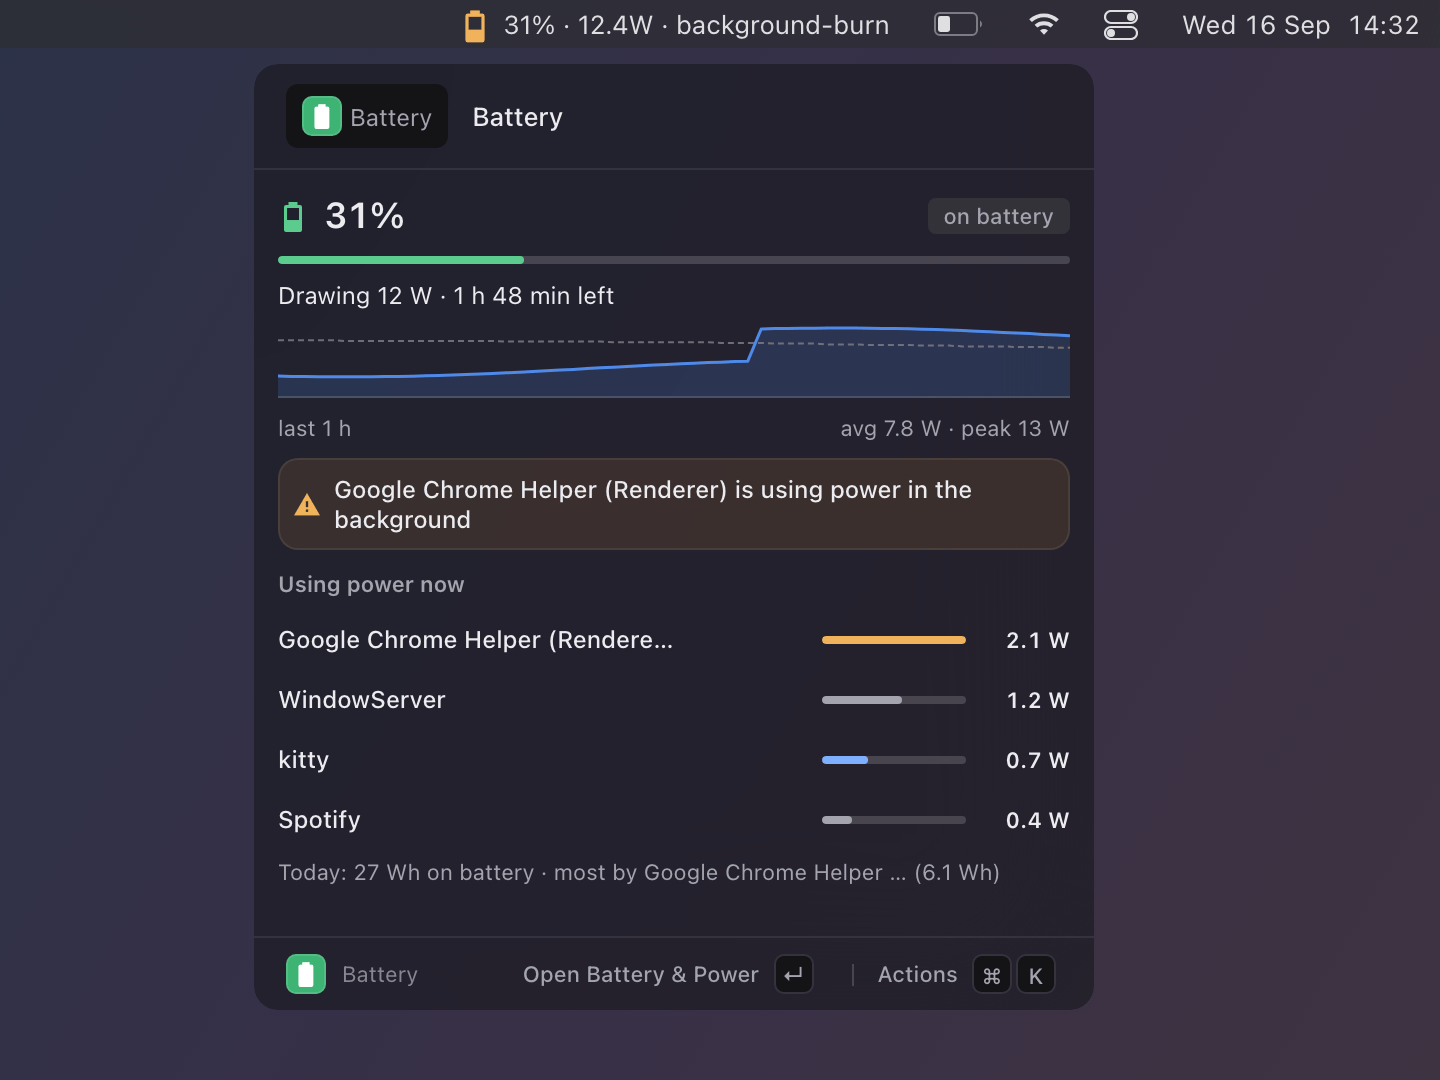
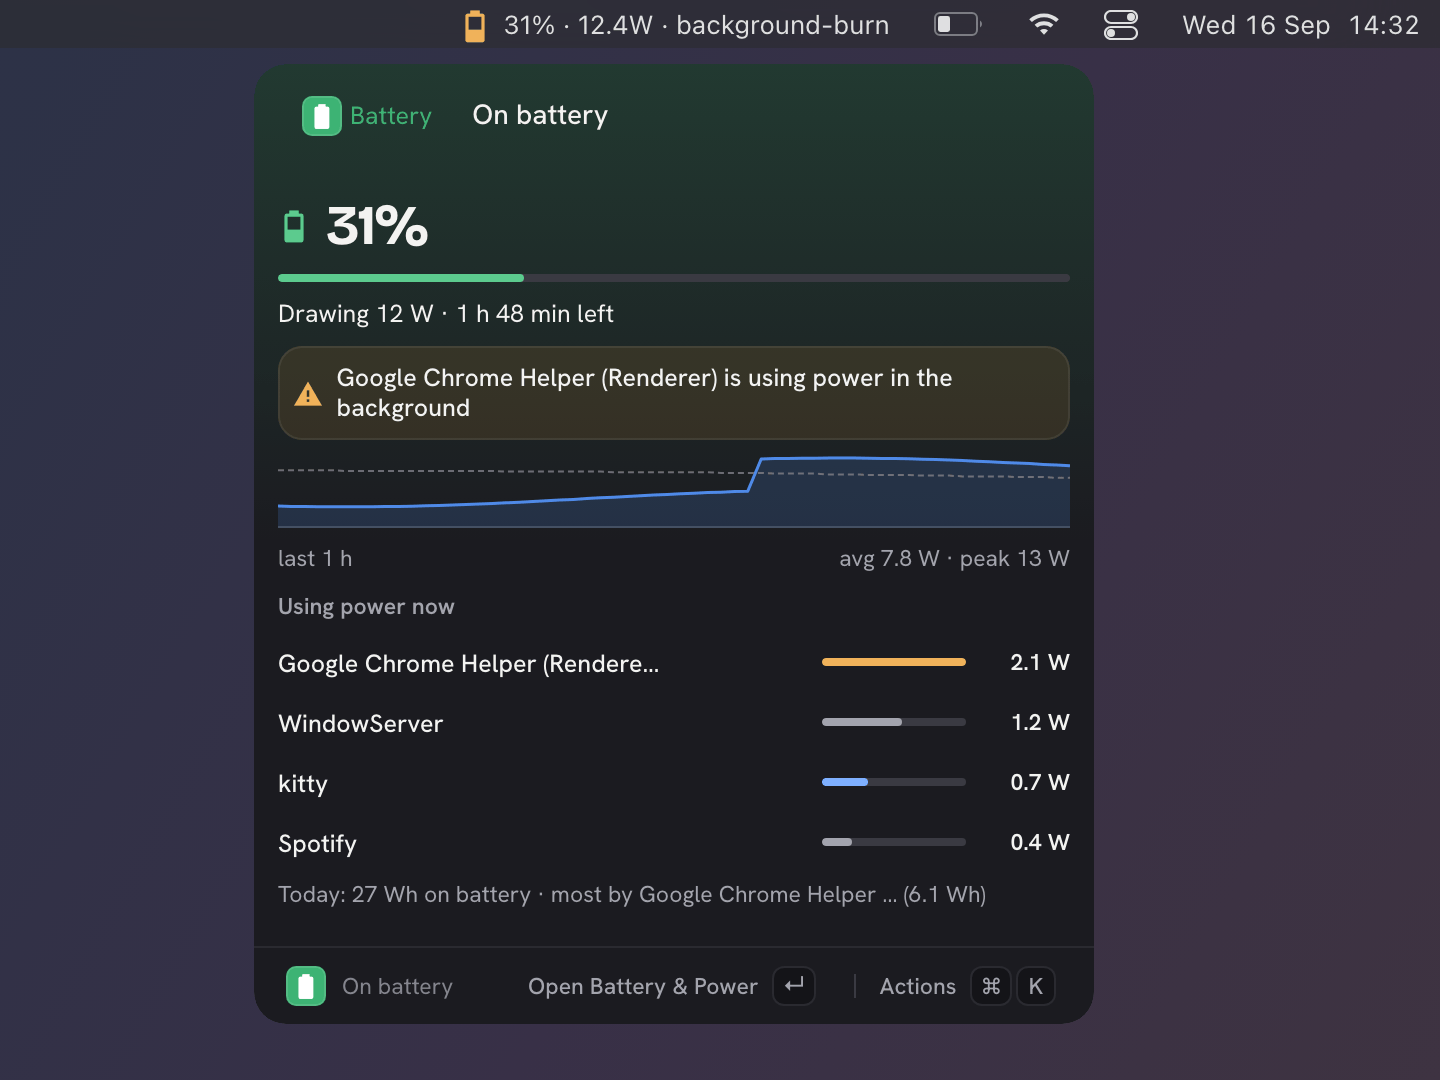
power: the level leads as a headline; the popover's title says where the power comes from and the alert sits under the level; the tooltip's first line is the plain sentence (Drawing 12 W · 1 h 48 min left); four processes on Now so the panel fits in Ink

Changed region(s): [[0.1875, 0.1833, 0.75, 0.9472], [0.1875, 0.0611, 0.4375, 0.1528]]

diff --git a/extensions/power/view.ts b/extensions/power/view.ts
@@ -34,7 +34,8 @@ export type Pop = { snap: Snapshot; hour: Point[]; today?: Usage[]; theme?: Them
 export const LOW = 20, CRITICAL = 10;
 export const HISTORY_S = 6 * 3600;
 const SLOTS = 72; // 5 min each over six hours
-const NOW_ROWS = 5, NOW_ROWS_COMPACT = 4, USAGE_ROWS = 7, USAGE_ROWS_COMPACT = 5;
+// Four processes under the split bar and the alert fit the panel with the Kept awake line under them.
+const NOW_ROWS = 4, NOW_ROWS_COMPACT = 4, USAGE_ROWS = 7, USAGE_ROWS_COMPACT = 5;
 const LEFT_W = 272, CARD_PAD = 12, CHART_H = 96;
 const G = { bolt: "\u{f140b}", battery: "\u{f0079}", alert: "\u{f0026}", lock: "\u{f033e}", dot: "\u{f111}", chip: "\u{f061a}", screen: "\u{f0379}", plug: "\u{f06a5}", awake: "\u{f0f36}" };
 const RAMP: [number, string][] = [[90, "\u{f0079}"], [70, "\u{f0081}"], [50, "\u{f007f}"], [30, "\u{f007d}"], [20, "\u{f007b}"], [0, "\u{f007a}"]];
@@ -136,15 +137,15 @@ function chart(points: Point[], o: { span: number; slots: number; width: number;
 const heading = (key: string, title: string, extra?: ViewNode): ViewNode => row([text(title, { size: "xs", weight: "semibold", color: "muted" }), ...(extra ? [{ type: "spacer" as const }, extra] : [])], { key: `h-${key}`, gap: 1, minHeight: 18 });
 const tint = (color: TagColor, theme: Theme, alpha: string) => `${ink(color, theme)}${alpha}` as `#${string}`;
 
-function head(s: Snapshot, big: "xl" | "lg" = "xl"): ViewNode[] {
+/** The level leads as the headline, the glyph beside it; `badge` adds where the power comes from (the popover says that in its title instead). */
+function head(s: Snapshot, badge = true): ViewNode[] {
   const c = levelColor(s);
   return [
     row([
       text(glyphOf(s), { key: "glyph", style: "glyph", size: "lg", color: c }),
-      text(`${s.percent}%`, { key: "percent", style: "number", size: big, weight: "semibold" }),
-      { type: "spacer" },
-      { type: "badge", key: "state", text: stateWord(s), color: onBattery(s) ? (c === "green" ? "grey" : c) : "green" },
-    ], { key: "head", gap: 2 }),
+      text(`${s.percent}%`, { key: "percent", style: "headline" }),
+      ...(badge ? [{ type: "spacer" } as const, { type: "badge", key: "state", text: stateWord(s), color: onBattery(s) ? (c === "green" ? "grey" : c) : "green" } as const] : []),
+    ], { key: "head", gap: 2, align: "center" }),
     { type: "progress", key: "level", value: s.percent / 100, color: c },
     text(sentence(s), { key: "sentence", style: "body", size: "sm" }),
   ];
@@ -325,7 +326,7 @@ export function renderDash(d: Dash): View {
     healthTiles(s, LEFT_W - 2 * CARD_PAD),
   ], { key: "left", width: LEFT_W, padding: 3, gap: 2, surface: "elevated", radius: true });
   const tree = d.compact
-    ? column([...head(s, "lg"), right], { key: "dash", padding: 3, gap: 2 })
+    ? column([...head(s), right], { key: "dash", padding: 3, gap: 2 })
     : row([left, right], { key: "dash", padding: 3, gap: 4, align: "stretch" });
   return { title: `Battery ${s.percent}% · ${tabTitle(d.tab)}`, id: "dash", keys: "actions", actions: dashActions(d), tree };
 }
@@ -348,14 +349,14 @@ export function renderPopover(p: Pop): View {
     text(x.watts !== undefined ? watts(x.watts) : `${Math.round(x.share)}%`, { style: "number", size: "xs", width: 44, align: "end" }),
   ], { key: `pp-${x.name}`, gap: 2, minHeight: 22, transition: { enter: "fade", exit: "fade" } });
   return {
-    title: "Battery",
+    title: stateWord(s).replace(/^./, (c) => c.toUpperCase()),
     id: "power",
     keys: "actions",
     actions: [{ id: "palette", title: "Open Battery & Power", shortcut: "enter" }, { id: "settings", title: "Open Battery settings", shortcut: "s" }],
     tree: column([
-      ...head(s),
-      ...(s.watched && p.hour.some((x) => !x.ext && x.w > 0) ? chart(p.hour, { span: 3600, slots: 60, width: POP_W, height: 36, theme: p.theme, now, color: levelColor(s) === "green" ? "blue" : levelColor(s), key: "hour" }) : []),
+      ...head(s, false),
       ...alertCards(s, p.theme),
+      ...(s.watched && p.hour.some((x) => !x.ext && x.w > 0) ? chart(p.hour, { span: 3600, slots: 60, width: POP_W, height: 36, theme: p.theme, now, color: levelColor(s) === "green" ? "blue" : levelColor(s), key: "hour" }) : []),
       ...(top.length ? [heading("procs", "Using power now"), ...top.map(procLine)] : []),
       ...(today && today.total >= 0.05 ? [text(`Today: ${wh(today.total)} on battery${heaviest ? ` · most by ${truncate(nameOf(heaviest.name), 22)} (${wh(heaviest.wh)})` : ""}`, { key: "today", style: "muted", size: "xs" })] : []),
       ...(!s.watched ? [text("Install the power watcher to see the draw and what uses it.", { key: "unwatched", style: "muted", size: "xs" })] : []),

diff --git a/extensions/power/index.ts b/extensions/power/index.ts
@@ -6,7 +6,7 @@
 import { dirname, join } from "node:path";
 import { home, now, settings, state, text, toast, truncate, view as liveView, type BarItem, type Ctx, type Effect, type Extension, type View } from "@zcag/pal";
 import { points, snapshot, tailSamples, usage, type Snapshot, type Usage } from "./data.ts";
-import { focusedName, glyphOf, HISTORY_S, LOW, renderDash, renderPopover, rowCount, TABS, type Dash, type Tab } from "./view.ts";
+import { focusedName, glyphOf, HISTORY_S, LOW, renderDash, renderPopover, rowCount, sentence, TABS, type Dash, type Tab } from "./view.ts";
 
 export { parsePmset, parseUpower } from "./data.ts";
 
@@ -55,7 +55,6 @@ async function windowOf(tab: Exclude<Tab, "now">): Promise<Usage[] | "missing"> 
 
 // ---- the strip ---------------------------------------------------------------
 
-const stateLabel = (s: Snapshot) => (s.status === "charging" ? "Charging" : s.status === "discharging" ? "Discharging" : s.status === "charged" ? "Charged" : "Not charging");
 /** Waste interrupts whatever the level is; a bare draw only counts on battery. */
 const loud = (s: Snapshot) => !!s.alerts.length || (s.source === "Battery Power" && (s.watts ?? 0) >= LOUD_WATTS);
 /** When a rule fired it named the culprit; otherwise only a dominant background process is worth the width. */
@@ -96,7 +95,8 @@ async function barItem(): Promise<BarItem> {
   start();
   const s = await read().catch(() => undefined);
   if (!s) return { hidden: true, states: { level: null, charging: null, draw: null, alert: null } };
-  const tooltip = [s.source, stateLabel(s), s.remaining, s.watts !== undefined && s.source === "Battery Power" ? `${s.watts.toFixed(1)} W draw` : undefined, s.alerts[0]?.message].filter(Boolean).join(" · ");
+  // The first line stands alone (a glance card shows it under the title): what it is doing and for how long; the alert on its own line.
+  const tooltip = [sentence(s), s.alerts[0]?.message].filter(Boolean).join("\n");
   const menu = { view: await popover(s) };
   const alert = s.alerts.some((a) => a.level === "crit") ? "crit" : s.alerts.length ? "warn" : null;
   return { icon: glyphOf(s), title: title(s), tooltip, click: "open", menu, empty: { icon: glyphOf(s), title: title(s), tooltip, menu }, states: { level: s.percent, charging: s.source !== "Battery Power", draw: s.source === "Battery Power" ? (s.watts ?? 0) : 0, alert } };

diff --git a/host/test/extensions/power.test.ts b/host/test/extensions/power.test.ts
@@ -42,8 +42,12 @@ describe("power: the strip", () => {
   test("the watcher's warning names the culprit; a click opens the palette, hover the popover", async () => {
     const item = await host.render("power", "battery") as any;
     expect(item).toMatchObject({ icon: "\u{f007d}", title: "31% · 12.4W · background-burn", states: { level: 31, charging: false, draw: 12.4, alert: "warn" }, click: "open" });
-    expect(item.tooltip).toBe("Battery Power · Discharging · 1:48 remaining · 12.4 W draw · Google Chrome Helper (Renderer) is using power in the background");
-    expect(texts(item.menu.view)).toEqual(expect.arrayContaining(["31%", "on battery", "Drawing 12 W · 1 h 48 min left", "Using power now", "Google Chrome Helper (Renderer) is using power in the background", "2.1 W"]));
+    // The tooltip's first line stands alone on a glance card; the alert on the next.
+    expect(item.tooltip).toBe("Drawing 12 W · 1 h 48 min left\nGoogle Chrome Helper (Renderer) is using power in the background");
+    // The level leads as the headline; where the power comes from is the popover's title.
+    expect(item.menu.view.title).toBe("On battery");
+    expect(texts(item.menu.view)).not.toContain("on battery");
+    expect(texts(item.menu.view)).toEqual(expect.arrayContaining(["31%", "Drawing 12 W · 1 h 48 min left", "Using power now", "Google Chrome Helper (Renderer) is using power in the background", "2.1 W"]));
     expect(await host.request<any>("bar/open", { extension: "power", id: "battery" })).toEqual({ push: { extension: "power", palette: "power" } });
   });
 
